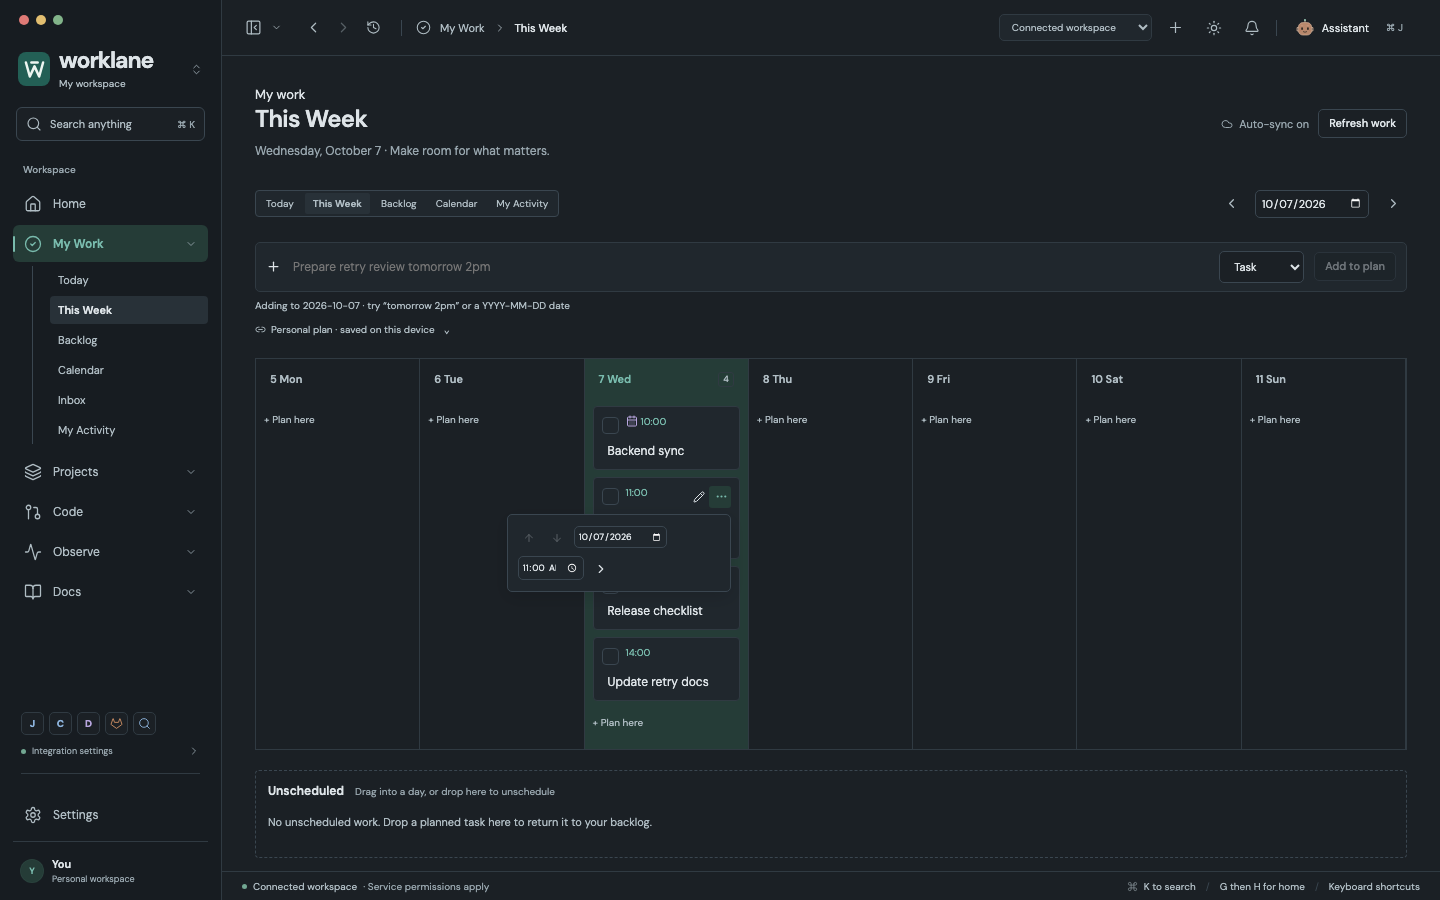
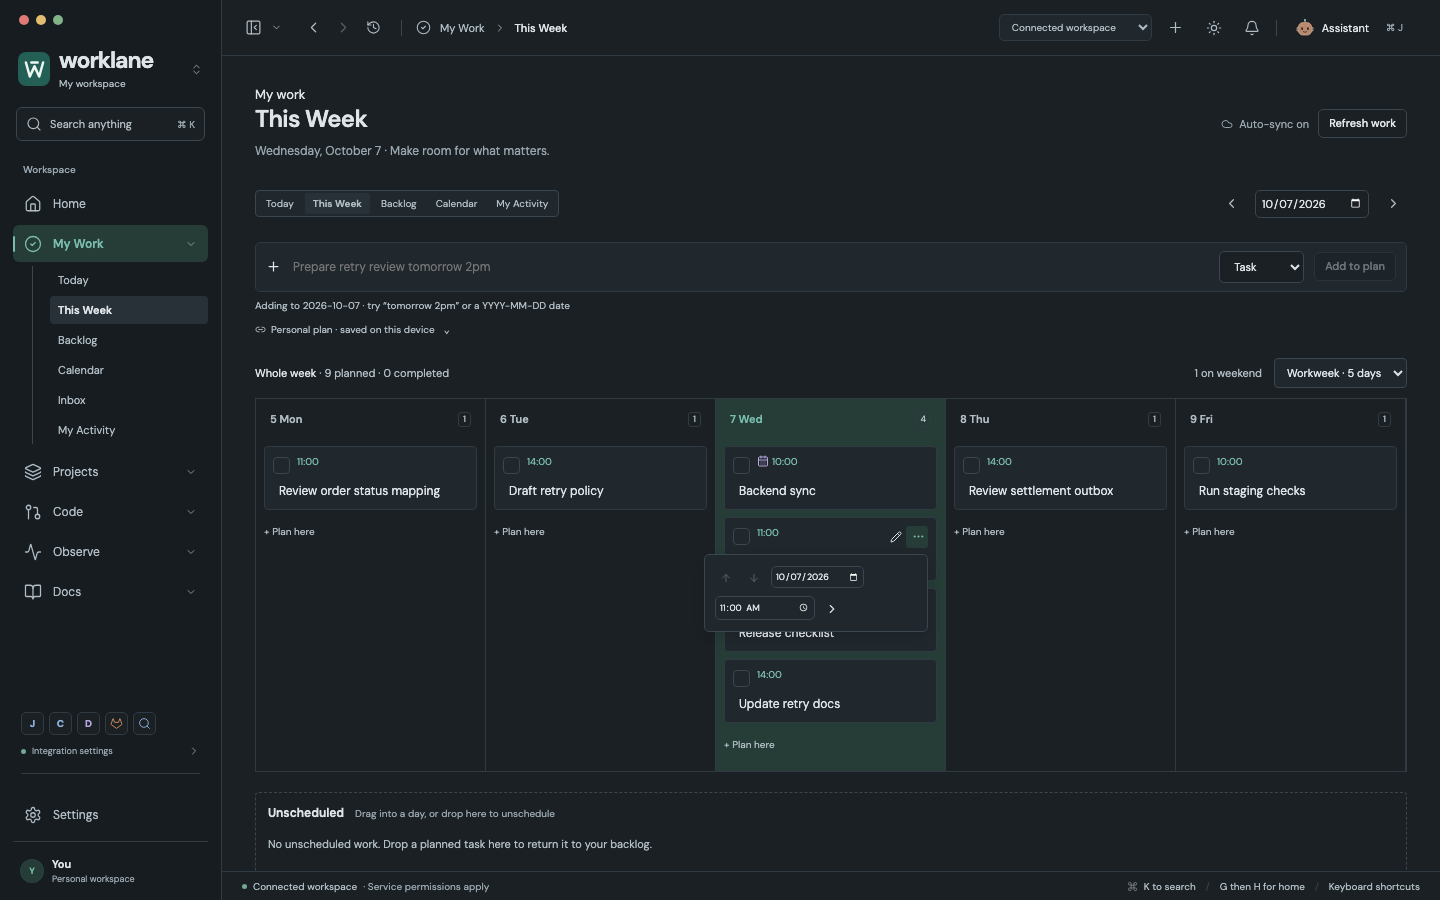
Refine workweek planning from additional todo design references

diff --git a/src/components/DailyWorkspace.jsx b/src/components/DailyWorkspace.jsx
@@ -239,6 +239,7 @@ function PlanningWorkspace({
   const [quickDate, setQuickDate] = useState(() => planningSession?.quickDate || null);
   const [backlogQuery, setBacklogQuery] = useState(() => planningSession?.backlogQuery || "");
   const [showCompleted, setShowCompleted] = useState(() => planningSession?.showCompleted || false);
+  const [weekLayout, setWeekLayout] = useState(() => planningSession?.weekLayout || "full");
   const [date, setDate] = useState(() => focusDate || (view === "Today" ? today : rememberedRange?.date || planningSession?.date || today)),
     [mode, setMode] = useState(() => rememberedRange?.mode || planningSession?.mode || "Week"),
     [quick, setQuick] = useState(() => planningSession?.quick || ""),
@@ -263,9 +264,9 @@ function PlanningWorkspace({
   useEffect(() => {
     const currentRange = lastRange.current;
     ranges.current[view] = { date: currentRange.date, mode: currentRange.mode };
-    planningSessions.set(planningKey, { ...currentRange, ranges: { ...ranges.current }, quick, kind, quickDate, returnRange, backlogQuery, showCompleted });
+    planningSessions.set(planningKey, { ...currentRange, ranges: { ...ranges.current }, quick, kind, quickDate, returnRange, backlogQuery, showCompleted, weekLayout });
     planningUndo = { removed, scheduleUndo, completionUndo };
-  }, [planningKey, view, date, mode, quick, kind, quickDate, returnRange, removed, scheduleUndo, completionUndo, backlogQuery, showCompleted]);
+  }, [planningKey, view, date, mode, quick, kind, quickDate, returnRange, removed, scheduleUndo, completionUndo, backlogQuery, showCompleted, weekLayout]);
   useEffect(() => {
     if (focusDate && /^\d{4}-\d{2}-\d{2}$/.test(focusDate)) setDate(focusDate);
     if (!focusTaskId) return;
@@ -455,6 +456,9 @@ function PlanningWorkspace({
   }
   const weekday = (new Date(date + "T12:00:00").getDay() + 6) % 7;
   let days = Array.from({ length: 7 }, (_, i) => shiftDay(date, i - weekday));
+  const weekItems = plan.tasks.filter(task => days.includes(task.date));
+  const weekendItems = weekItems.filter(task => days.slice(5).includes(task.date));
+  if (view === "This Week" && weekLayout === "workweek") days = days.slice(0, 5);
   if (view === "Calendar" && mode === "Day") days = [date];
   if (view === "Calendar" && mode === "Month") {
     const first = date.slice(0, 8) + "01",
@@ -691,8 +695,25 @@ function PlanningWorkspace({
         </div>
       ) : weekly ? (
         <>
+          {view === "This Week" && <div className="planning-week-toolbar">
+            <p>Whole week <span>· {weekItems.length} planned · {weekItems.filter(task => task.done).length} completed</span></p>
+            <div>
+              {weekLayout === "workweek" && weekendItems.length > 0 && <button className="quiet-button" onClick={() => {
+                setWeekLayout("full");
+                requestAnimationFrame(() => {
+                  const heading = rootRef.current?.querySelector(`[data-plan-day="${weekendItems[0].date}"]`);
+                  heading?.focus({preventScroll:true}); heading?.scrollIntoView({block:"nearest",inline:"nearest"});
+                });
+              }} aria-label={`Show ${weekendItems.length} weekend ${weekendItems.length === 1 ? "item" : "items"}`}>{weekendItems.length} on weekend</button>}
+              <select aria-label="Week layout" value={weekLayout} onChange={event => setWeekLayout(event.target.value)}>
+                <option value="workweek">Workweek · 5 days</option>
+                <option value="full">Full week · 7 days</option>
+              </select>
+            </div>
+          </div>}
           <div
             className={`planning-grid ${mode === "Month" && view === "Calendar" ? "month" : ""} ${mode === "Day" && view === "Calendar" ? "day" : ""}`}
+            style={view === "This Week" ? { gridTemplateColumns: `repeat(${days.length}, minmax(125px, 1fr))` } : undefined}
           >
             {days.map((d) => (
               <section

diff --git a/tests/planning-workweek.spec.js b/tests/planning-workweek.spec.js
@@ -1,0 +1,34 @@
+import {test,expect} from '@playwright/test';
+import {installConnected} from './fixtures/connected.mjs';
+test.beforeEach(async ({page}) => { await page.clock.install({time:new Date('2026-10-07T09:00:00+09:00')}); await installConnected(page); });
+async function add(page,title) { await page.getByLabel('Quick add personal work').fill(title); await page.getByRole('button',{name:'Add to plan',exact:true}).click(); }
+test('Workweek widens weekdays without losing weekend work or changing task data',async({page})=>{
+  await add(page,'Review retry 2026-10-07 11am'); await add(page,'Weekend release 2026-10-10 2pm');
+  await page.getByRole('button',{name:'This Week',exact:true}).first().click();
+  await expect(page.locator('.planning-grid > section')).toHaveCount(7);
+  const original=await page.evaluate(()=>localStorage.getItem('orbit.connected.plan.v1'));
+  const before=(await page.getByLabel('Plan for 2026-10-07',{exact:true}).boundingBox()).width;
+  await page.getByLabel('Week layout',{exact:true}).selectOption('workweek');
+  await expect(page.locator('.planning-grid > section')).toHaveCount(5);
+  expect((await page.getByLabel('Plan for 2026-10-07',{exact:true}).boundingBox()).width).toBeGreaterThan(before);
+  await expect(page.locator('.planning-week-toolbar')).toContainText('2 planned');
+  await expect(page.getByLabel('Show 1 weekend item',{exact:true})).toBeVisible();
+  expect(await page.evaluate(()=>localStorage.getItem('orbit.connected.plan.v1'))).toBe(original);
+  await page.getByLabel('Show 1 weekend item',{exact:true}).click();
+  await expect(page.getByLabel('Plan for 2026-10-10',{exact:true})).toContainText('Weekend release');
+  await expect(page.getByLabel('Open day 2026-10-10',{exact:true})).toBeFocused();
+});
+test('The week display survives navigation and narrow workweeks fit while Calendar keeps seven days',async({page})=>{
+  await add(page,'Read retry docs'); await page.getByRole('button',{name:'This Week',exact:true}).first().click();
+  await page.getByLabel('Week layout',{exact:true}).selectOption('workweek');
+  await page.getByRole('button',{name:'Home',exact:true}).click();
+  await page.getByRole('button',{name:'My Work',exact:true}).click();
+  await page.getByRole('button',{name:'This Week',exact:true}).first().click();
+  await expect(page.getByLabel('Week layout',{exact:true})).toHaveValue('workweek');
+  await page.setViewportSize({width:980,height:650});
+  expect(await page.locator('.planning-grid').evaluate(element=>element.scrollWidth<=element.clientWidth+1)).toBe(true);
+  await page.getByRole('button',{name:'Calendar',exact:true}).first().click();
+  await page.getByLabel('Calendar range',{exact:true}).selectOption('Week');
+  await expect(page.locator('.planning-grid > section')).toHaveCount(7);
+  await expect(page.getByLabel('Week layout',{exact:true})).toHaveCount(0);
+});

diff --git a/src/daily-workflow.css b/src/daily-workflow.css
@@ -40,6 +40,12 @@
 .daily-connected .attention-expand{display:block;color:var(--accent);padding:9px 0;font-size:11px}
 .daily-connected .attention-coverage{font-size:9px;line-height:1.6;margin-top:8px}
 .daily-connected .available-plan-date{margin:-3px 0 12px;font-size:10px}
+.planning-week-toolbar{display:flex;align-items:center;justify-content:space-between;gap:12px;flex-wrap:wrap;margin-top:20px;font-size:11px}
+.planning-week-toolbar p{margin:0;color:var(--text)}
+.planning-week-toolbar p span{color:var(--secondary)}
+.planning-week-toolbar>div{display:flex;align-items:center;gap:10px}
+.planning-week-toolbar select{font-size:11px;min-height:30px;background:var(--surface);color:var(--text);border:1px solid var(--line-strong);border-radius:4px;padding:5px 8px}
+.planning-week-toolbar+.planning-grid{margin-top:10px}
 .daily-connected .live-inbox .inbox-work{flex-wrap:wrap;gap:8px}
 .daily-connected .live-inbox .inbox-work>button:first-child{min-width:140px;overflow-wrap:anywhere}
 .daily-connected .live-inbox .available-review>button:first-child{display:flex;align-items:center;gap:6px;text-align:left}

diff --git a/src/workspace.css b/src/workspace.css
@@ -235,7 +235,8 @@
   flex-wrap: wrap;
 }
 .planning-grid .plan-task-actions input[type="time"] {
-  max-width: 66px !important;
+  width: 100px;
+  max-width: 100px !important;
 }
 .planning-grid:not(.day):not(.month) .plan-task {
   min-height: 52px;

diff --git a/docs/TODO_DESIGN_REFERENCES.md b/docs/TODO_DESIGN_REFERENCES.md
@@ -1,0 +1,52 @@
+# Todo and planning design references
+
+2026-10-08. A follow-up to the [team usability review](UPSTREAM_UX_REVIEW.md), concentrating on personal task management, daily planning and readable weekly layouts. Four repositories were cloned locally and inspected at the commits below. Relevant files and primary product pages were read; this is not a review of every line in those repositories. No upstream source, artwork or new dependency was copied into Worklane.
+
+## Which products fit Worklane
+
+| Reference | What is useful | Worklane decision |
+| --- | --- | --- |
+| [Super Productivity](https://github.com/super-productivity/super-productivity) | Developer issue integrations, one task dataset across daily/planner/schedule views, day load and clear task/event separation | Strongest workflow reference. Add a small truthful weekly count; retain local Jira/MR planning and context previews. Duration-based load/timeboxing needs real estimates and event duration before claiming capacity. |
+| [WeekToDo](https://github.com/manuelernestog/weektodo) | Date columns beside persistent unscheduled lists, configurable visible column count, compact text tasks, fast inline capture | Strongest weekly layout reference. Implement 5-day workweek versus full 7-day selection, with visible weekend-item recovery. Preserve full dates and one canonical task list. |
+| [Planify](https://github.com/alainm23/planify) | Quiet checklist typography, compact hierarchy, overdue rescheduling, separately disclosed completed tasks | Retain Worklane's earlier-day carryover and guarded Undo. Consider a separate completed fold for Today after addressing focus retention and timeline ordering; it is not implemented in this pass. |
+| [Vikunja](https://github.com/go-vikunja/vikunja) | One task model across list/board/table, inline metadata and explicit quick-entry syntax guidance | Keep Worklane's visible parsed title/date/time preview. Labels, priorities, subtasks and richer date parsing are candidates, not newly implemented capabilities. Avoid hiding unsupported input behind a natural-language claim. |
+
+Super Productivity's [official product page](https://super-productivity.com/) and WeekToDo's [official explanation](https://weektodo.me/) describe developer planning and combined calendar/task lists. [Vikunja quick-entry documentation](https://vikunja.io/help/quick-add-magic/) explains recognized metadata syntax. Planify's published task-list screenshot and Today implementation were inspected locally. Public browser inspection used isolated empty profiles; it did not connect accounts or access personal tabs. Super Productivity's actual Planner was reached through its visible navigation; it displayed dated groups and planned/available duration. WeekToDo's public planner was inspected after local first-run setup: day columns above persistent custom lists, with compact completion and editing affordances. A direct Super Productivity URL/source-component locator attempt initially failed because the hosted app used hash routing; that failed attempt is not treated as feature evidence.
+
+SevenFlow appeared in search results but its repository returned **404** on direct open and Git clone at audit time. It is excluded from verified source references; cached descriptions are not treated as current implementation evidence.
+
+## Inspected source, pinned commits
+
+- **Super Productivity** — `71eb7780bcf5d6b1dfdcd39a8a8265547d040760`, MIT.
+  - [planner view, lines 1–18](https://github.com/super-productivity/super-productivity/blob/71eb7780bcf5d6b1dfdcd39a8a8265547d040760/src/app/features/planner/planner-plan-view/planner-plan-view.component.html#L1-L18): overdue items before dated day groups.
+  - [day header/items, lines 1–95](https://github.com/super-productivity/super-productivity/blob/71eb7780bcf5d6b1dfdcd39a8a8265547d040760/src/app/features/planner/planner-day/planner-day.component.html#L1-L95): planned/available duration, counts, task drag/drop and separate all-day events. Worklane adopts a simple count rather than fabricating duration capacity.
+  - [schedule controls, lines 1–69](https://github.com/super-productivity/super-productivity/blob/71eb7780bcf5d6b1dfdcd39a8a8265547d040760/src/app/features/schedule/schedule/schedule.component.html#L1-L69): accessible day/week/month controls and calendar visibility disclosure.
+- **WeekToDo** — `d384fc72d04e9c8a8431d456a3218c08d0c77e29`, GPL-3.0.
+  - [column settings, lines 177–191](https://github.com/manuelernestog/weektodo/blob/d384fc72d04e9c8a8431d456a3218c08d0c77e29/src/views/configModal.vue#L177-L191): configurable calendar/custom-list column counts.
+  - [dated list and capture, lines 1–28](https://github.com/manuelernestog/weektodo/blob/d384fc72d04e9c8a8431d456a3218c08d0c77e29/src/components/toDoList.vue#L1-L28): width follows visible columns; date lists keep inline task capture and empty drag targets.
+  - [compact task row, lines 1–28](https://github.com/manuelernestog/weektodo/blob/d384fc72d04e9c8a8431d456a3218c08d0c77e29/src/components/toDoItem.vue#L1-L28): restrained completion/title/time hierarchy.
+- **Planify** — `31e1b7d38fe00749ea50ae89d03a643bd55fb387`, GPL-3.0.
+  - [Today overdue header, lines 159–174](https://github.com/alainm23/planify/blob/31e1b7d38fe00749ea50ae89d03a643bd55fb387/src/Views/Today.vala#L159-L174): overdue section with reschedule action.
+  - [completed section, lines 259–303](https://github.com/alainm23/planify/blob/31e1b7d38fe00749ea50ae89d03a643bd55fb387/src/Views/Today.vala#L259-L303): separate completed list/revealer.
+  - [published list screenshot](https://github.com/alainm23/planify/blob/31e1b7d38fe00749ea50ae89d03a643bd55fb387/data/resources/screenshot/screenshot-01.png): checklist density and nested sections; inspected, not redistributed.
+- **Vikunja** — `e7d7f173e40627eb35c913752507ba61c2b895d8`, AGPL-3.0-or-later.
+  - [quick-entry help, lines 1–91](https://github.com/go-vikunja/vikunja/blob/e7d7f173e40627eb35c913752507ba61c2b895d8/frontend/src/components/tasks/partials/QuickAddMagic.vue#L1-L91): on-demand syntax help for metadata and date/time.
+  - [quick-entry build, lines 90–119](https://github.com/go-vikunja/vikunja/blob/e7d7f173e40627eb35c913752507ba61c2b895d8/frontend/src/composables/useQuickAddTask.ts#L90-L119): parsing tied to the canonical task and active context. No parser was imported.
+
+## Implemented now
+
+- **This Week → Week layout:** choose **Workweek · 5 days** or **Full week · 7 days**. The existing full-week default remains. Wider weekday columns make task titles easier to read and let a 980px window with expanded navigation display five days without horizontal scrolling.
+- A five-day view discloses the number of weekend items. Clicking the count restores the full week and focuses the first weekend date with work, including for keyboard users. It never unschedules, deletes or duplicates a task.
+- **Whole week** shows planned and completed item counts across Monday–Sunday, including hidden weekends. These are actual local plan counts, not AI-generated estimates or performance metrics.
+- The display choice survives navigation within the renderer session. Calendar Week stays seven days; Calendar Month and Day stay unchanged.
+- Scheduling time inputs now expose the full native AM/PM field. Edit/More popovers retain stable task geometry.
+
+![Five-day workweek, actual app with synthetic tasks](media/todo-workweek.png)
+
+![Stable scheduling menu with readable time input](media/upstream-planning-week.png)
+
+## Validation
+
+Full browser **345/345**, adapter/model/Git **168/168**, affected planning **15/15** and final narrow-layout **2/2** checks passed. Production build, native profile/vault/parser-worker checks and **11/11** native connected workflows passed with zero renderer errors. Details are recorded in [development history](LOCAL_DEVELOPMENT.md). New checks in `tests/planning-workweek.spec.js` verify canonical task data remains byte-identical when changing layouts, weekend recovery/focus, increased column width, navigation return, a narrow five-day view with expanded sidebar, and unchanged seven-day Calendar semantics. Existing editor-draft/concurrent-save/Undo/keyboard tests remain required.
+
+Captures are reproducible with `node scripts/capture-planning-ux.mjs`, using an owned ephemeral Vite server and isolated Chromium, synthetic service data and a frozen example week. No real company records or credentials are used. Actual upstream public UI/source inspection does not certify their integrations or Worklane's live organization compatibility.

diff --git a/README.md b/README.md
@@ -101,6 +101,7 @@ Today, This Week, Backlog and Calendar share **one local task dataset**. Add a r
 - Linked issues and reviews show their planned date. Moving an existing task is explicit and reversible, without duplicates.
 - Personal tasks and events, with Day / Week / Month calendar views.
 - Stable weekly cards with keyboard-accessible Edit/More actions, explicit event completion and guarded completion Undo.
+- Five-day workweek or full seven-day display, with hidden-weekend counts and direct recovery; Calendar keeps all seven days. [Todo/planning design references](docs/TODO_DESIGN_REFERENCES.md).
 - Personal editor drafts survive incidental Escape/outside dismissal during the app session; explicit Cancel discards them.
 - Drag-to-schedule, keyboard reordering, and editable linked personal plans.
 - Click a calendar date to focus quick add without losing the current month.
@@ -230,7 +231,7 @@ npm run test:assistant-memory-desktop # Encrypted memory across native restarts
 npm run build                   # Production renderer build
 ```
 
-Latest validation: **343 browser tests**, **168 adapter/model/Git tests** and **23 native connected workflow checks** passed in the [upstream-informed team UX audit](docs/UPSTREAM_UX_REVIEW.md). Native profile compatibility, encrypted-vault checks, production parser-worker checks and build also passed. Native checks use an isolated profile, real temporary Git repositories and HTTPS protocol fixtures; no real company records are modified. Earlier memory lifecycle checks and planning reviews are recorded in [the practical planning review](docs/PLANNING_PRACTICAL_REVIEW.md) and [validation history](docs/LOCAL_DEVELOPMENT.md).
+Latest validation: **345 browser tests**, **168 adapter/model/Git tests** and **11 native connected workflow checks** passed in the [todo/planning design follow-up](docs/TODO_DESIGN_REFERENCES.md). Native profile compatibility, encrypted-vault checks, production parser-worker checks and build also passed. Additional API/mixed-flow native checks are recorded in the [preceding team UX audit](docs/UPSTREAM_UX_REVIEW.md). Native checks use an isolated profile, real temporary Git repositories and HTTPS protocol fixtures; no real company records are modified. Earlier memory lifecycle checks and planning reviews are recorded in [the practical planning review](docs/PLANNING_PRACTICAL_REVIEW.md) and [validation history](docs/LOCAL_DEVELOPMENT.md).
 
 The subsequent [code readability follow-up](docs/CODE_READABILITY.md) passed **42 affected browser checks**, **124 adapter/model checks** and **11 native connected workflows**, plus production build. It did not rerun the complete browser suite.
 

diff --git a/docs/media/README.md b/docs/media/README.md
@@ -2,7 +2,7 @@
 
 These files are curated recordings and screenshots of the actual Worklane UI. All task names, documents, code, identities, service addresses and responses are synthetic demo/fixture data. No real credentials or company responses are captured.
 
-The latest upstream review captures are reproduced with `node scripts/capture-upstream-ux.mjs` and `node scripts/capture-planning-ux.mjs`. Both own an ephemeral Vite server and isolated Chromium instance. They capture actual 1440×900 app pixels (plus a 980×650 dark review), use synthetic data, and assert zero page errors. `upstream-review-*` shows source-call disclosure and bounded flow context; `upstream-planning-week*` shows stable scheduling actions; `upstream-search-*` shows searchable destinations and explicit no-result recovery.
+The latest upstream review captures are reproduced with `node scripts/capture-upstream-ux.mjs` and `node scripts/capture-planning-ux.mjs`. Both own an ephemeral Vite server and isolated Chromium instance. They capture actual 1440×900 app pixels (plus a 980×650 dark review), use synthetic data, and assert zero page errors. `upstream-review-*` shows source-call disclosure and bounded flow context; `upstream-planning-week*` shows stable scheduling actions; `todo-workweek.png` shows the five-day layout and hidden-weekend count; `upstream-search-*` shows searchable destinations and explicit no-result recovery.
 
 - `daily-command-center.png`: built-in demo home and connected work trail.
 - `sidebar-hidden.png`: actual Electron hidden-navigation mode, top-left recovery control and macOS window-control clearance. Synthetic HTTPS fixtures; reproduce with `npm run test:connected-desktop` and copy `research/completion/electron-sidebar-hidden.png`.

diff --git a/docs/LOCAL_DEVELOPMENT.md b/docs/LOCAL_DEVELOPMENT.md
@@ -176,3 +176,17 @@ node scripts/capture-upstream-ux.mjs
 node scripts/capture-planning-ux.mjs
 node scripts/capture-business-flow-review.mjs
 ```
+
+## Todo/planner design follow-up — 2026-10-08
+
+[Four additional task-management references](TODO_DESIGN_REFERENCES.md): Super Productivity, WeekToDo, Planify and Vikunja were cloned and relevant source inspected at pinned commits. Worklane now offers a five-day workweek with visible hidden-weekend count/recovery, truthful whole-week counts and readable native time fields. Full-week default and canonical task data remain intact; the layout preference survives navigation within the renderer session. No upstream code, assets or new dependency was imported.
+
+After the final app edits, full browser **345/345** and adapter/model/Git **168/168** passed. Affected planning checks **15/15** passed; the final tighter workweek check with expanded navigation at 980px **2/2** passed. Production build, native profile/vault/production parser-worker checks and **11/11** native connected workflows passed with 71 synthetic service requests and zero renderer errors. Three actual planning captures passed geometry checks and recorded zero page errors. No live company services were used. No agent-team delegation is claimed for this follow-up; the prior independent review remains documented separately.
+
+```sh
+npm test -- --workers=5
+npx playwright test tests/planning-workweek.spec.js tests/upstream-planning-ux.spec.js tests/usability-planning.spec.js
+npm run test:desktop
+node scripts/test-connected-desktop.mjs
+node scripts/capture-planning-ux.mjs
+```

diff --git a/docs/SCREENSHOTS.md b/docs/SCREENSHOTS.md
@@ -4,6 +4,10 @@ All screens below use synthetic data. The connected-mode images are rendered aga
 
 ## Latest upstream-informed UX pass
 
+![Five-day workweek with wide readable task columns and visible weekend work count](media/todo-workweek.png)
+
+[The follow-up todo design review](TODO_DESIGN_REFERENCES.md) compared Super Productivity, WeekToDo, Planify and Vikunja source. Workweek/full-week selection preserves task data and reveals hidden weekend items directly.
+
 ![Distinct source operations beside the diagram and sample AI review](media/upstream-review-calls.png)
 
 The selected component's Calls list distinguishes reads, writes and message dispatch, with exact source line links. Flow details opens contracts without shrinking the diagram.
